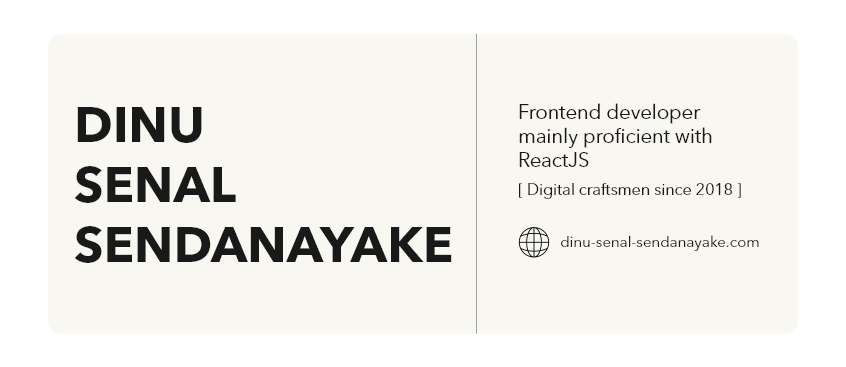
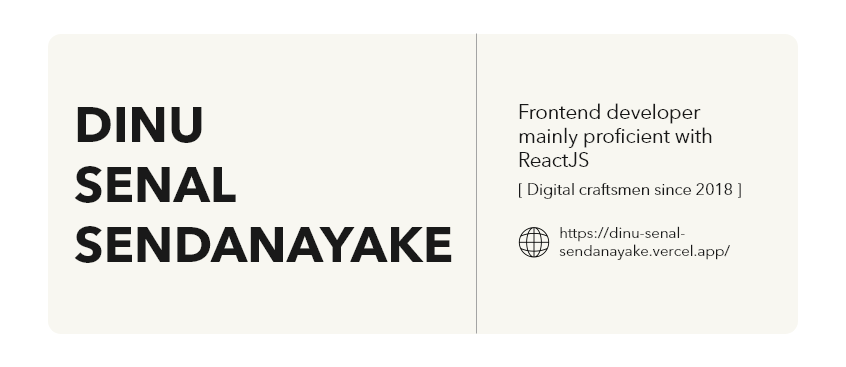
feat: personal website changed

Changed region(s): [[0.6454, 0.6294, 0.8913, 0.7193]]

diff --git a/README.md b/README.md
@@ -8,7 +8,7 @@
 
 #
 
-[website]: https://dinu-sendanayake.netlify.app/
+[website]: https://dinu-senal-sendanayake.vercel.app/
 [linkedin]: https://www.linkedin.com/in/dinu-senal-sendanayake-763234195/
 [instagram]: https://www.instagram.com/dinu_senal/
 [gmail]: dinusenal8@gmail.com
@@ -105,6 +105,6 @@
 
 #### Reach Me
 
-<a href="https://dinu-sendanayake.netlify.app/" target="_blank">
-    <img alt="https://dinu-sendanayake.netlify.app/" width="32px" src="https://github.com/Dinu-Senal/Dinu-Senal/blob/main/images/Reach-Me-Logo.png" >
+<a href="https://dinu-senal-sendanayake.vercel.app/" target="_blank">
+    <img alt="https://dinu-senal-sendanayake.vercel.app/" width="32px" src="https://github.com/Dinu-Senal/Dinu-Senal/blob/main/images/Reach-Me-Logo.png" >
 </a>
